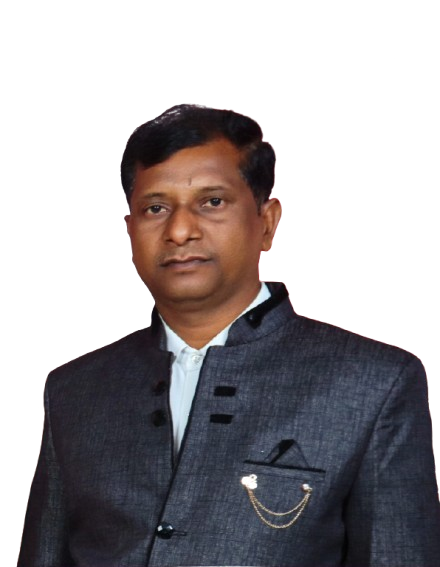
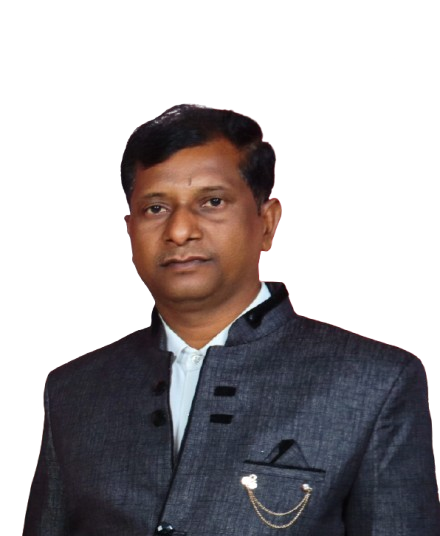
changes complete

diff --git a/src/app/page.tsx b/src/app/page.tsx
@@ -2,8 +2,6 @@
 import Image from "next/image";
 import { motion } from "framer-motion";
 
-
-
 export default function Home() {
   return (
     <div className="font-sans bg-white text-gray-900 dark:bg-gray-900 dark:text-white min-h-screen flex flex-col">
@@ -15,7 +13,7 @@ export default function Home() {
           animate={{ opacity: 1, y: 0 }}
           transition={{ duration: 0.7, ease: "easeOut" }}
         >
-        Mansoori Construction Babina Pvt Ltd
+          Mansoori Construction Babina Pvt Ltd
         </motion.h1>
         <motion.p
           className="text-lg sm:text-xl md:text-2xl mb-4 max-w-2xl mx-auto text-yellow-900 dark:text-yellow-200 font-semibold"
@@ -58,7 +56,9 @@ export default function Home() {
         <Image
           src="/images/Founder.png"
           alt="Owner Photo"
-          className="w-60 h-60 rounded-full object-cover border-2 border-yellow-700  shadow mb-6"
+          className="rounded-full object-cover border-2 border-yellow-700  shadow mb-6"
+          width={240} //40
+          height={240}
         />
         <h2 className="text-2xl sm:text-3xl font-bold mb-2 text-yellow-700 dark:text-yellow-400">
           Haji Sheikh Mohammad Ibrahim
@@ -68,49 +68,64 @@ export default function Home() {
           <h3 className="font-semibold text-xl mb-8 mt-4">Founder Son's</h3>
           <ul className="text-2xl text-yellow-700 dark:text-yellow-400 font-semibold space-y-1">
             <div className="sons flex items-center justify-center gap-12 mb-3">
-          <Image
-          src="/images/Saheed.png"
-          alt="Owner Photo"
-          className="w-28 h-28 rounded-full object-cover object-top border-2 border-yellow-700 shadow"
-        />
-        <div className="leading-none text-start">
-                    <li>Mohd Saheed Mansoori</li>
-                    <span className="text-[1rem] text-black font-normal dark:text-white">( PWD Contractor )</span>
-                    </div>
+              <Image
+                src="/images/Saheed.png"
+                alt="Owner Photo"
+                className=" object-cover object-top border-2 border-yellow-700 shadow"
+                width={112}    // same as w-28
+                height={112} 
+              />
+              <div className="leading-none text-start">
+                <li>Mohd Saheed Mansoori</li>
+                <span className="text-[1rem] text-black font-normal dark:text-white">
+                  ( PWD Contractor )
+                </span>
+              </div>
             </div>
             <div className="sons flex items-center justify-center gap-12 mb-3">
-          <Image
-          src="/images/Baheed.png"
-          alt="Owner Photo"
-          className="w-28 h-28 rounded-full object-cover object-top border-2 border-yellow-700 shadow"
-        />
-        <div className="leading-none text-start">
-            <li>Mohd Baheed Mansoori</li>
-            <span className="text-[1rem] text-black font-normal dark:text-white">( Mansoori Building Materials )</span>
-            </div>
+              <Image
+                src="/images/Baheed.png"
+                alt="Owner Photo"
+                className="object-cover object-top border-2 border-yellow-700 shadow"
+                width={112}    // same as w-28
+                height={112} 
+              />
+              <div className="leading-none text-start">
+                <li>Mohd Baheed Mansoori</li>
+                <span className="text-[1rem] text-black font-normal dark:text-white">
+                  ( Mansoori Building Materials )
+                </span>
+              </div>
             </div>
             <div className="sons flex items-center justify-center gap-12 mb-3">
-          <Image
-          src="/images/Jaheed.png"
-          alt="Owner Photo"
-          className="w-28 h-28 rounded-full object-cover object-center border-2 border-yellow-700 shadow"
-        />
-        <div className="leading-none text-start">
-            <li>Mohd Jaheed Mansoori</li>
-            <span className="text-[1rem] text-black font-normal dark:text-white">( Jaheed Stones )</span>
-        </div>
+              <Image
+                src="/images/Jaheed.png"
+                alt="Owner Photo"
+                className="object-cover object-center border-2 border-yellow-700 shadow"
+                width={112}    // same as w-28
+                height={112} 
+              />
+              <div className="leading-none text-start">
+                <li>Mohd Jaheed Mansoori</li>
+                <span className="text-[1rem] text-black font-normal dark:text-white">
+                  ( Jaheed Stones )
+                </span>
+              </div>
             </div>
             <div className="sons flex items-center justify-center gap-12 mb-3 mr-10">
-          <Image
-          src="/images/Aziz.png"
-          alt="Owner Photo"
-          className="w-28 h-28 rounded-full object-cover object-top border-2 border-yellow-700 shadow"
-        />
-        <div className="leading-none text-start">
-            <li>Mohd Aziz Mansoori</li>
-            <span className="text-[1rem] text-black font-normal dark:text-white">( lovely Garments )</span>
-
-            </div>
+              <Image
+                src="/images/Aziz.png"
+                alt="Owner Photo"
+                className="object-cover object-top border-2 border-yellow-700 shadow"
+                width={112}    // same as w-28
+                height={112} 
+              />
+              <div className="leading-none text-start">
+                <li>Mohd Aziz Mansoori</li>
+                <span className="text-[1rem] text-black font-normal dark:text-white">
+                  ( lovely Garments )
+                </span>
+              </div>
             </div>
           </ul>
         </div>
@@ -225,46 +240,72 @@ export default function Home() {
           Featured Projects
         </h2>
         <div className="grid grid-cols-1 sm:grid-cols-2 md:grid-cols-3 gap-8">
-            <div
-              className="bg-white dark:bg-gray-900 rounded-lg shadow overflow-hidden flex flex-col"
-            >
-              <Image className="h-50 object-cover object-top" src="/images/Talbehat.jpg" alt="" />
-              <div className="p-4 flex-1 flex flex-col">
-                <h3 className="font-extrabold text-lg mb-4 uppercase">
-                  Talbehat Police Residential, U.P
-                </h3>
-                <p className="text-sm flex-1">
-                This Complex are constructed to provide housing for police personnel, often prioritizing lower and higher subordinates, and are considered a key aspect of police force modernization. These complexes typically include well-secured residential buildings with basic amenities to improve living and working conditions.
-                </p>
-              </div>
+          <div className="bg-white dark:bg-gray-900 rounded-lg shadow overflow-hidden flex flex-col">
+            <Image
+              
+              width={400}    // same as h-50
+                height={0} 
+                className="h-50 object-cover object-top"
+              src="/images/Talbehat.jpg"
+              alt="Talbehat Site"
+            />
+            <div className="p-4 flex-1 flex flex-col">
+              <h3 className="font-extrabold text-lg mb-4 uppercase">
+                Talbehat Police Residential, U.P
+              </h3>
+              <p className="text-sm flex-1">
+                This Complex are constructed to provide housing for police
+                personnel, often prioritizing lower and higher subordinates, and
+                are considered a key aspect of police force modernization. These
+                complexes typically include well-secured residential buildings
+                with basic amenities to improve living and working conditions.
+              </p>
             </div>
-            <div
-              className="bg-white dark:bg-gray-900 rounded-lg shadow overflow-hidden flex flex-col"
-            >
-              <Image className="h-50 object-cover" src="/images/Budpura2.jpg" alt="" />
-              <div className="p-4 flex-1 flex flex-col">
-                <h3 className="font-extrabold text-lg mb-4 uppercase">
-                  Burhpura Higher Secondary School, U.P
-                </h3>
-                <p className="text-sm flex-1">
-                Government School construction projects aim to provide safe and conducive learning environments by building or renovating school infrastructure. These projects involve various components like classrooms, laboratories, libraries, administrative offices, and sanitation facilities, often adhering to specific standards and guidelines.
-                </p>
-              </div>
+          </div>
+          <div className="bg-white dark:bg-gray-900 rounded-lg shadow overflow-hidden flex flex-col">
+            <Image
+              width={400}    // same as h-50
+              height={0} 
+              className="h-50 object-cover"
+              src="/images/Budpura2.jpg"
+              alt="Burhpura Site"
+            />
+            <div className="p-4 flex-1 flex flex-col">
+              <h3 className="font-extrabold text-lg mb-4 uppercase">
+                Burhpura Higher Secondary School, U.P
+              </h3>
+              <p className="text-sm flex-1">
+                Government School construction projects aim to provide safe and
+                conducive learning environments by building or renovating school
+                infrastructure. These projects involve various components like
+                classrooms, laboratories, libraries, administrative offices, and
+                sanitation facilities, often adhering to specific standards and
+                guidelines.
+              </p>
             </div>
-            <div
-              className="bg-white dark:bg-gray-900 rounded-lg shadow overflow-hidden flex flex-col"
-            >
-              <Image className="h-50 object-cover" src="/images/Samthar.jpg" alt="" />
-              <div className="p-4 flex-1 flex flex-col">
-                <h3 className="font-extrabold text-lg mb-4 uppercase">
-                  Lalitpur Bitumen Road Construction, U.P
-                </h3>
-                <p className="text-sm flex-1">
-                Bitumen Road Construction involves creating a paved surface using a mixture of bitumen and aggregates like gravel or crushed rock. This process creates a durable, waterproof, and flexible road surface, ideal for withstanding heavy traffic, The surface texture of a bitumen road provides good skid resistance for vehicles. 
-                </p>
-              </div>
+          </div>
+          <div className="bg-white dark:bg-gray-900 rounded-lg shadow overflow-hidden flex flex-col">
+            <Image
+              width={400}    // same as h-50
+              height={0} 
+              className="h-50 object-cover"
+              src="/images/Samthar.jpg"
+              alt="Lalitpur Site"
+            />
+            <div className="p-4 flex-1 flex flex-col">
+              <h3 className="font-extrabold text-lg mb-4 uppercase">
+                Lalitpur Bitumen Road Construction, U.P
+              </h3>
+              <p className="text-sm flex-1">
+                Bitumen Road Construction involves creating a paved surface
+                using a mixture of bitumen and aggregates like gravel or crushed
+                rock. This process creates a durable, waterproof, and flexible
+                road surface, ideal for withstanding heavy traffic, The surface
+                texture of a bitumen road provides good skid resistance for
+                vehicles.
+              </p>
             </div>
-        
+          </div>
         </div>
       </motion.section>
 

diff --git a/src/components/Navbar.tsx b/src/components/Navbar.tsx
@@ -11,7 +11,8 @@ export default function Navbar() {
         <Link href="#" className="flex items-center gap-4">
           <span className="inline-block bg-yellow-600 rounded-full p-2">
           
-            <Image className="h-10" src="/images/Logo.png" alt="Logo" />
+            <Image width={40}   // required10
+      height={40}  src="/images/Logo.png" alt="Logo" />
           </span>
           <span className="font-bold text-xl tracking-wide text-yellow-700 dark:text-yellow-400">
             Mansoori's
